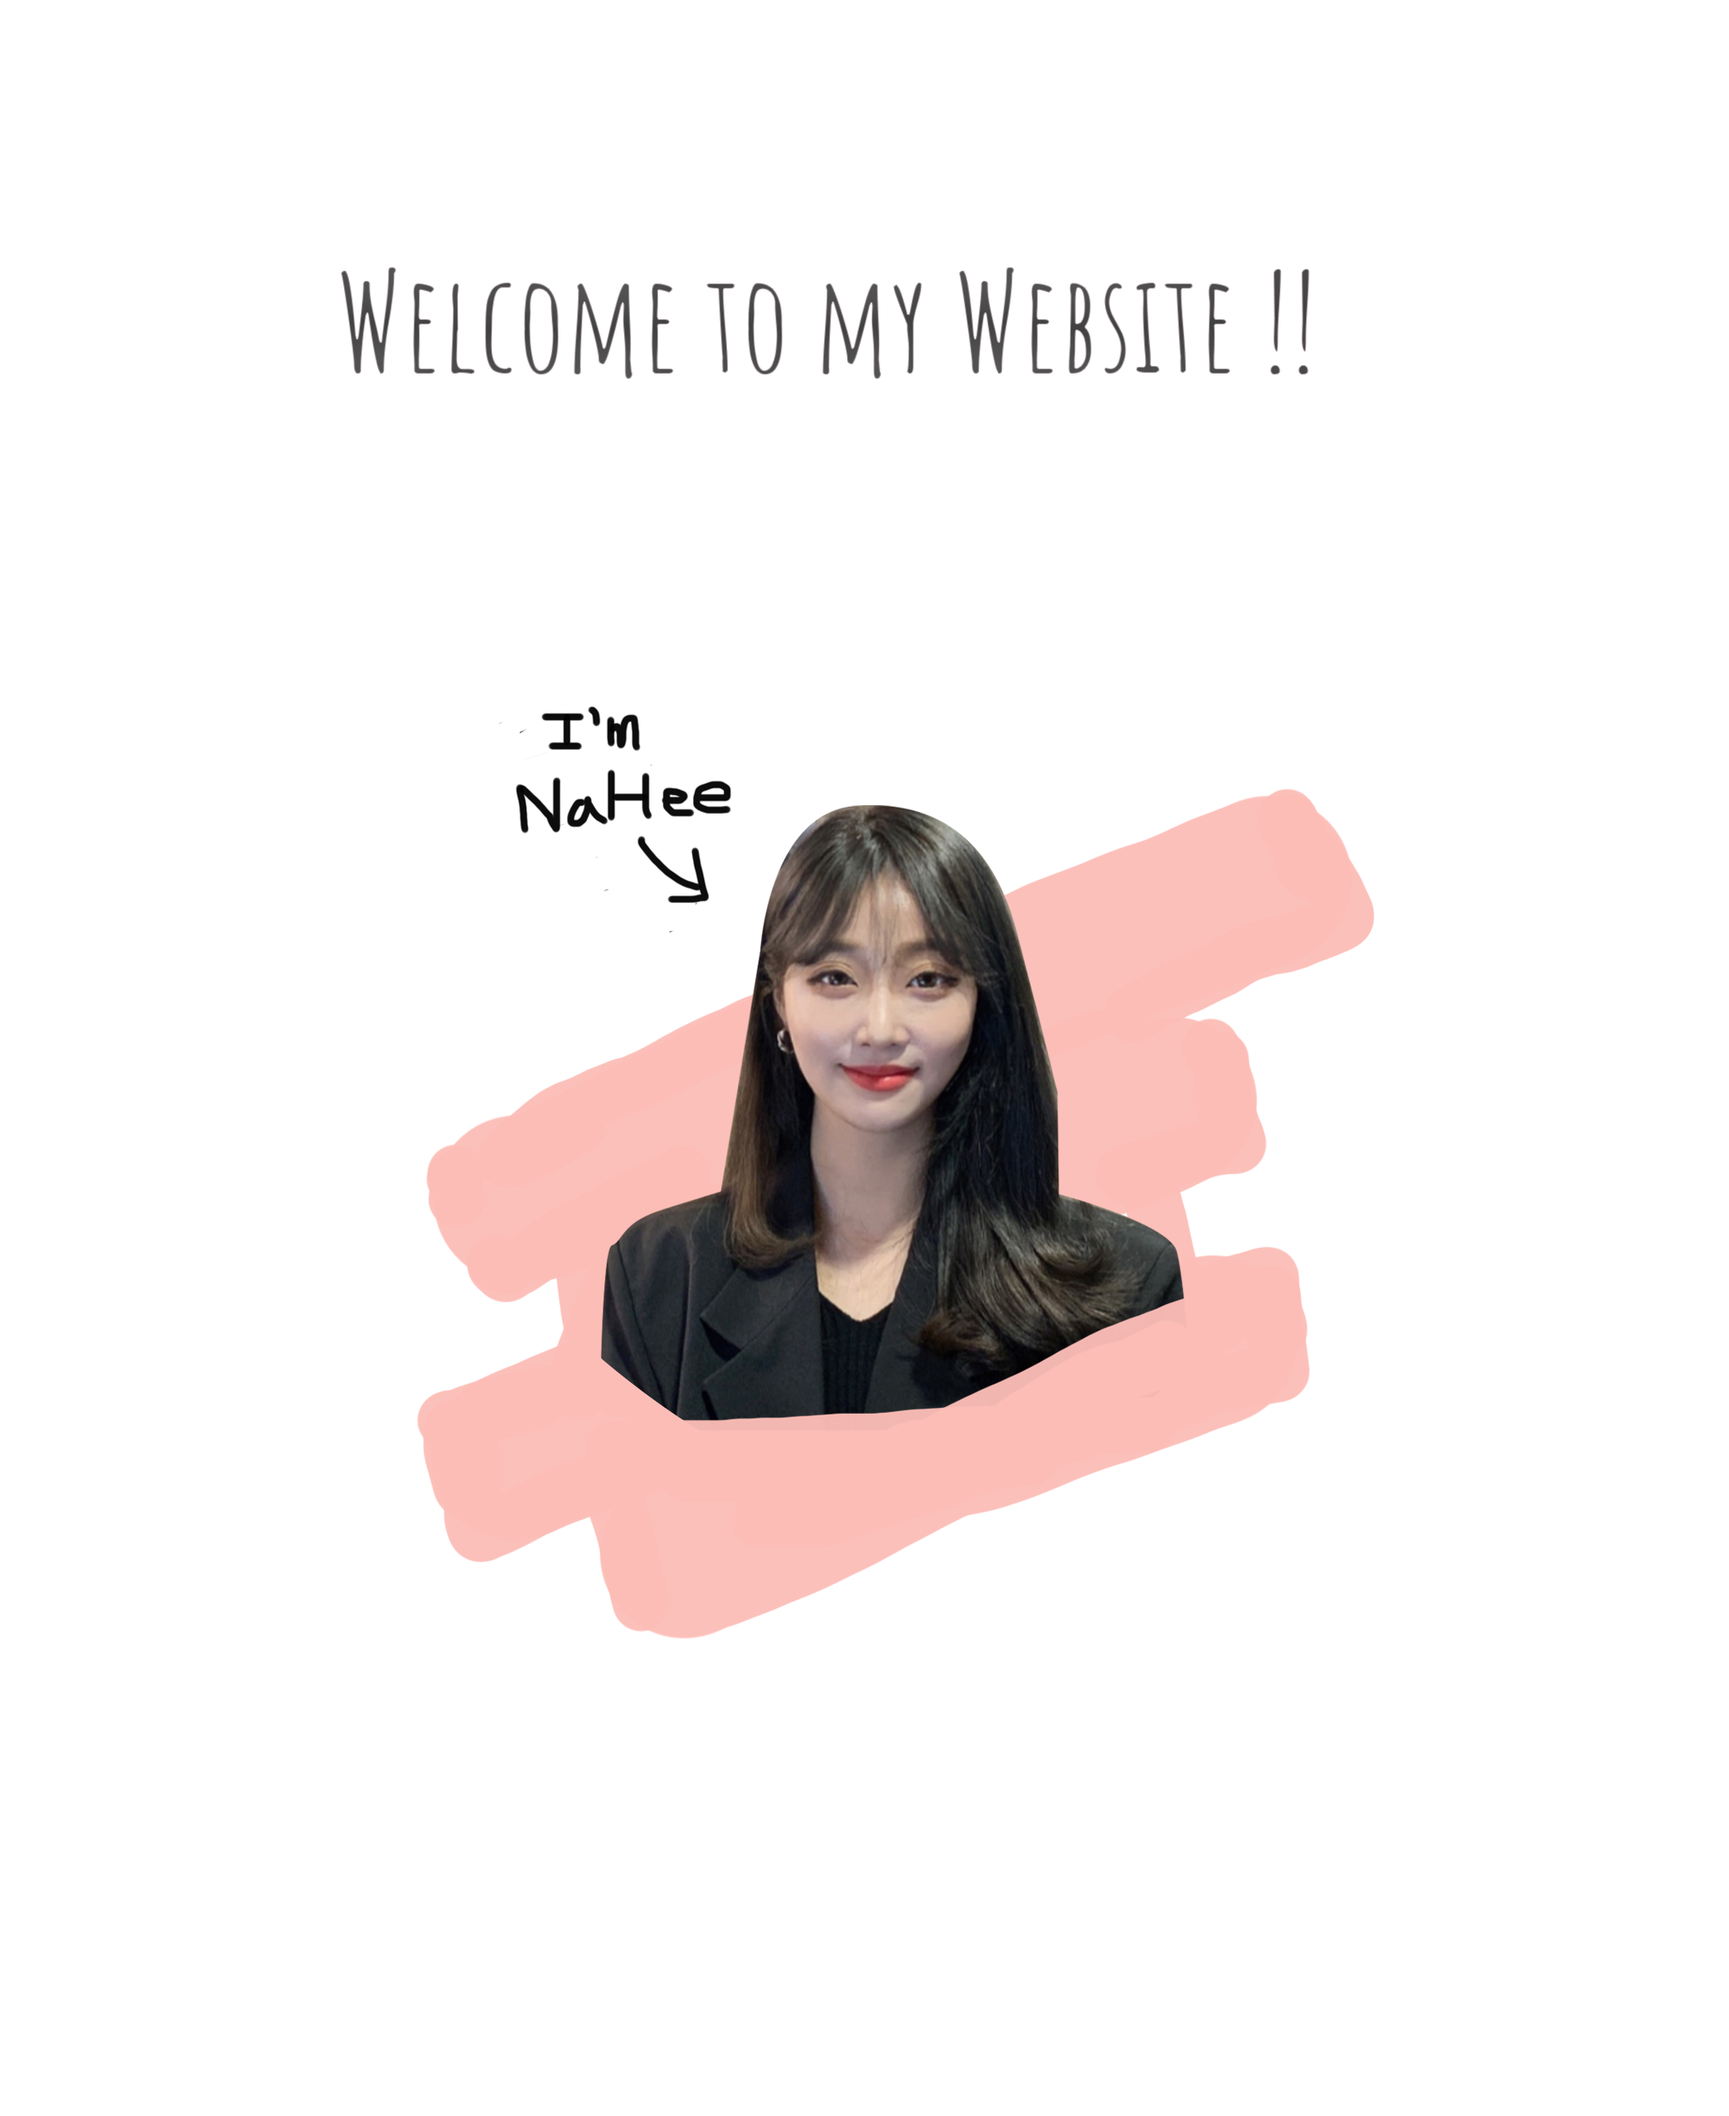
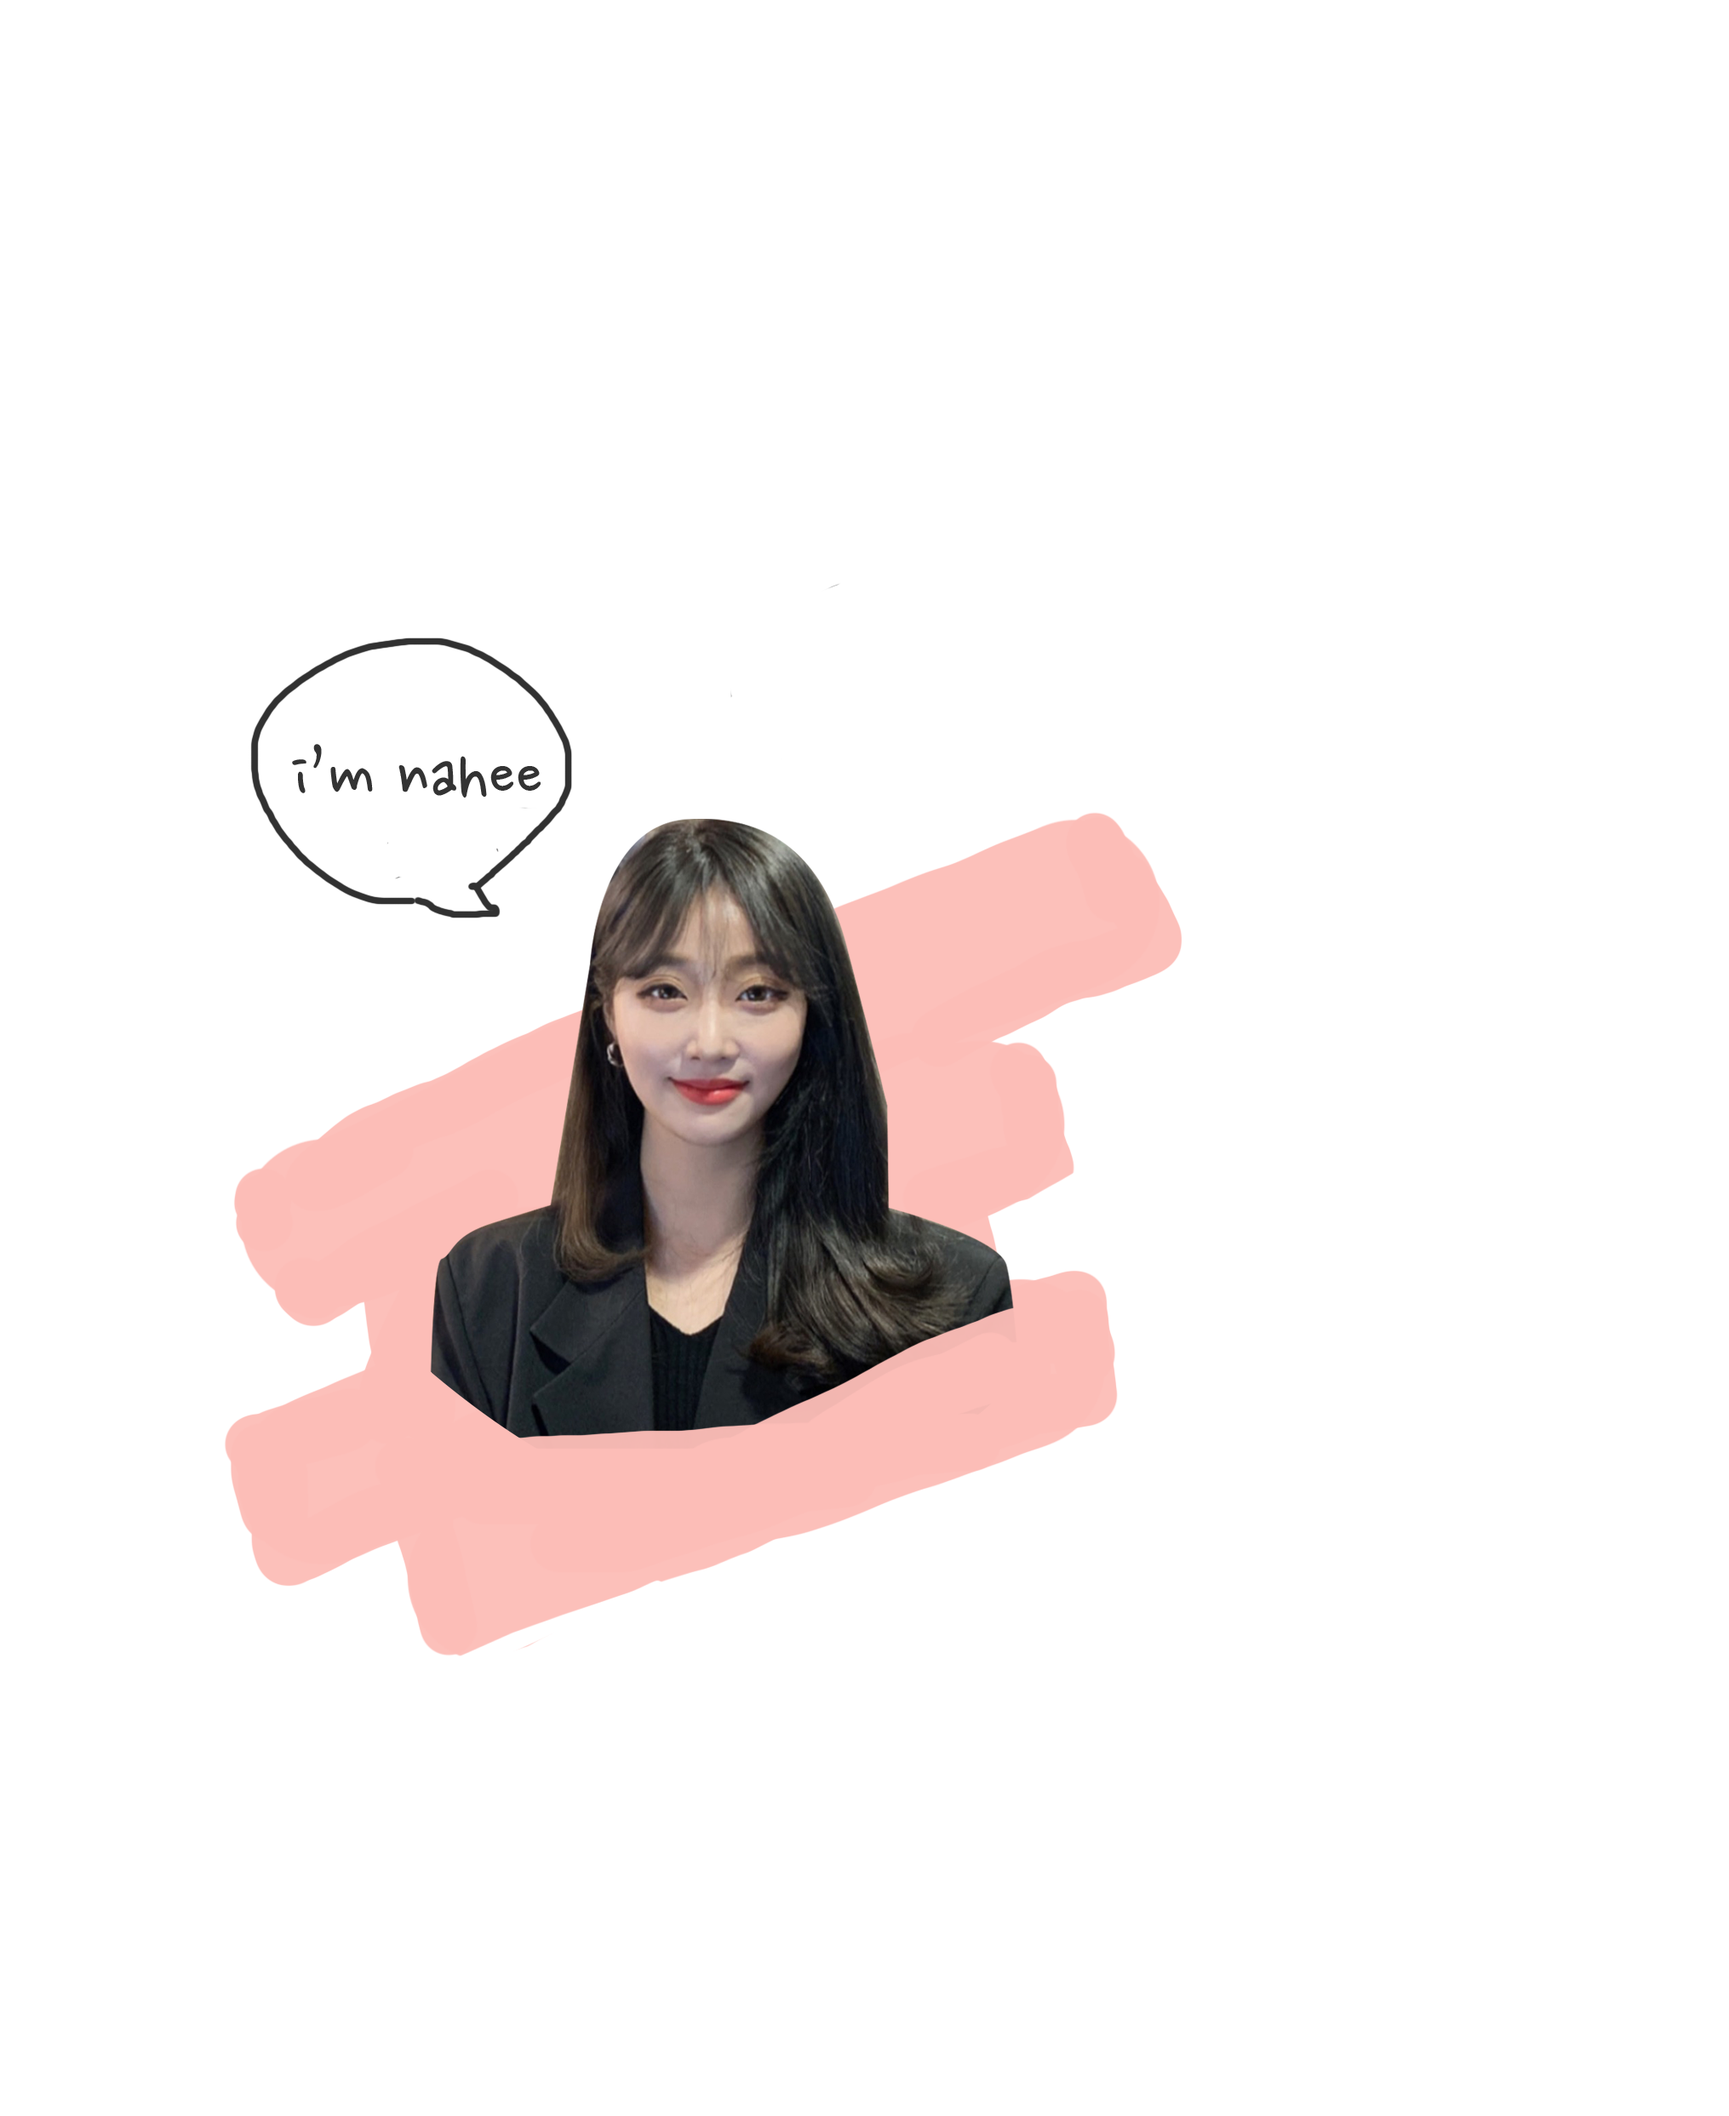
d

diff --git a/css/style.css b/css/style.css
@@ -1,5 +1,5 @@
 @import url('https://fonts.googleapis.com/css2?family=Lato:wght@300&display=swap');
-
+@import url('https://fonts.googleapis.com/css2?family=Amatic+SC:wght@700&display=swap');
 
 html {
   font-size: 1.5rem;
@@ -20,7 +20,7 @@ a {
   text-decoration: none;
 }
 #main{
-  padding:30px 50px;
+  padding:20px 50px;
   position:relative;
   width: 100%;
   height: 100vh;
@@ -28,7 +28,7 @@ a {
   background-color: #fde8ed;
   background-image: url("../img/mee.png");
   background-repeat: no-repeat;
-  background-size: 850px; 
+  background-size: 900px; 
   background-position: right bottom;
 }
 nav{
@@ -92,12 +92,16 @@ nav{
   
 	font-size: 60px;
 }
+.name h{
+  font-family: amatic SC;
+  font-size: 50px;
 
+}
 .name h1{
-  font-family: Poppins;
+  font-family: sans-serif;
   line-height: 1.5;
-  font-size: 30px;
-  margin: 3px;
+  font-size: 20px;
+  margin: 10px;
   letter-spacing: 2px;
   color:#292929;
 }

diff --git a/index.html b/index.html
@@ -59,6 +59,7 @@
       
 <!--name-->
 <div class="name">
+  <h>WELCOME TO MY HOMEPAGE!!</h>
   <!--hello-->
   <p>Hello</p>
 
